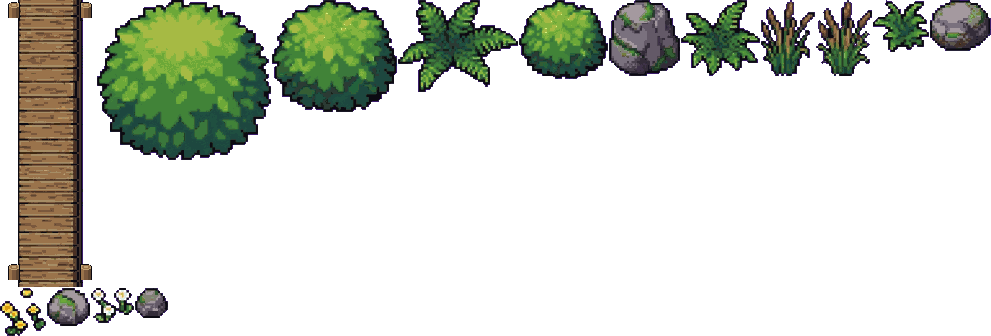
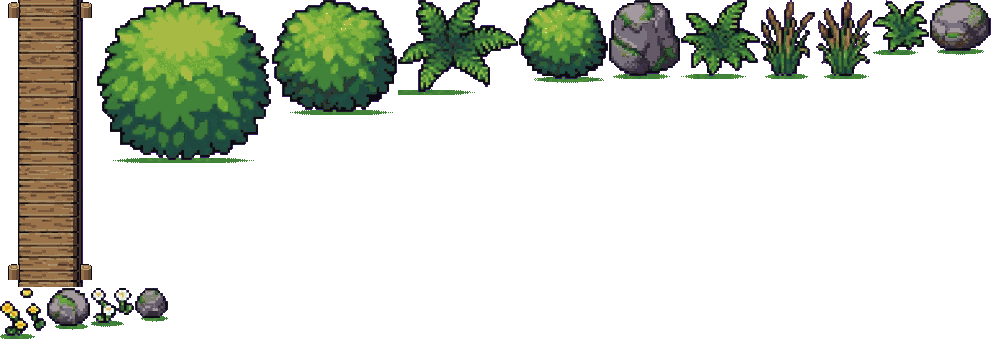
Companion terrain: meadow follow-up, the owner's shadow direction: cast-shadow pieces for the lower lawn (e, s, es, c), contact shadows under the props, the lawn mottled in loose patches, roots trailing down the cliff faces; the proof place draws them

diff --git a/art/companion-48/tools/build-meadow-drop.py b/art/companion-48/tools/build-meadow-drop.py
@@ -106,8 +106,19 @@ def fleck_windows(n, seed):
     return [RES[y - 24:y + 24, x - 24:x + 24] for y, x in got]
 def tone(k): k = np.clip(np.where(k > TOPK, 2 * TOPK - k, k), 0, TOPK); return np.array(LRAMP)[k]
 
+BAY = np.array([[0, 8, 2, 10], [12, 4, 14, 6], [3, 11, 1, 9], [15, 7, 13, 5]])
+def bayer(h, w): return np.tile(BAY, (h // 4 + 1, w // 4 + 1))[:h, :w]
+def mottle(seed):
+    """three or four greens in loose, irregular patches (owner 00:05: the top is mottled, not one fill): a smoothed noise field split
+    at +-0.7 sigma into a step down or up, faded to nothing 6 px from the tile's sides so tiles still meet on flecks alone; edges
+    dithered on the 4x4 Bayer"""
+    from scipy import ndimage as nd_
+    rng = np.random.RandomState(seed + 77); n = nd_.gaussian_filter(rng.normal(0, 1, (48, 48)), 5); n = (n - n.mean()) / n.std()
+    yy, xx = np.mgrid[0:48, 0:48]; fade = np.clip(np.minimum(np.minimum(yy, 47 - yy), np.minimum(xx, 47 - xx)) / 6.0, 0, 1)
+    n = n * fade; B = bayer(48, 48) / 16.0
+    return np.where(n > 0.7 + 0.3 * B, 1, np.where(n < -0.7 - 0.3 * B, -1, 0))
 def lawn_tile(f, seed):
-    t = tone(LAWN0 + f); rng = np.random.RandomState(seed)
+    t = tone(LAWN0 + f + mottle(seed)); rng = np.random.RandomState(seed)
     def tuft(cy, cx):
         base = t[cy, cx]
         for b in range(rng.randint(3, 6)):
@@ -136,6 +147,17 @@ def add(name, a, **f): PIECES.append((name, a, dict(status="candidate", offset=[
 FL = fleck_windows(8, 1)
 LIPF = fleck_windows(8, 2)[6:]                                    # the lawn texture for the pieces that carry their own lawn (lip, shore margin, spill, holes)
 for k in range(6): add(f"meadow/ground/lawn-{k + 1}", lawn_tile(FL[k], 300 + k), kind="ground", set="lawn", variant=str(k + 1))
+# the cast shadow (owner 00:05: "shadows help you add depth"; light from the upper left): drawn on the LOWER lawn tile beside a raised
+# edge, by the loader's rule (to be ruled): `e` on the tile east of a plateau or face, `s` on the tile south of a face's foot, `es` both,
+# `c` the tile whose only raised neighbour is its north-west. Lawn texture two steps under the lawn, toned by the tile's level like the
+# lawn; transparent beyond; a soft edge dithered over 4 px on the 4x4 Bayer.
+def shadow_piece(state, seed):
+    rng = np.random.RandomState(seed); yy, xx = np.mgrid[0:48, 0:48]; B = bayer(48, 48)
+    we = 14 + np.round(1.5 * np.sin(2 * np.pi * yy / 48)); hs = 22 + np.round(2 * np.sin(2 * np.pi * xx / 48))
+    de = {"e": we - xx, "s": hs - yy, "es": np.maximum(we - xx, hs - yy), "c": 14 - np.hypot(xx, yy)}[state]
+    inside = (de >= 4) | ((de > 0) & (B < de / 4 * 16))
+    a = np.where(inside, tone(LAWN0 - 2 + LIPF[seed % 2][yy % 48, xx % 48]), TR); return a
+for k, st in enumerate(("e", "s", "es", "c")): add(f"meadow/shadow/cast-{st}", shadow_piece(st, 40 + k), kind="shadow", set="cast", state=st)
 WQ = {n: to_idx(os.path.join(TS, "water", n + ".png")) for n in ("q-nw-edgeh-f1", "q-nw-fill-f1")}
 bank = WQ["q-nw-edgeh-f1"]; bk = bank[bank != TR]; bk = bk[np.isin(mat[bk], ["earth", "sand"])]; bv, bc = np.unique(bk, return_counts=True)
 SAND = sorted(bv[np.argsort(-bc)[:2]], key=lambda i: -lum[i]) if len(bv) else [P48.index["sand"]]
@@ -253,6 +275,15 @@ def spill(a, seed):
         a[y0 + d - 1, x] = gstep(up, -2); a[y0 + d, x] = OUTL
         if rng.rand() < .35:
             for t in range(1, rng.randint(2, 7)): a[y0 + d + t, x] = gstep(up, -1) if t < 3 else OUTL
+    ROOT, ROOTL = nearest((86, 60, 40)), nearest((128, 92, 60))         # roots trailing from the turf down the stone (owner's reference)
+    for _ in range(max(1, w // 24)):
+        x = int(rng.uniform(4, w - 4)); col = np.where(a[:, x] != TR)[0]
+        if not len(col): continue
+        y = col[0] + dd[x] + 1; L_ = rng.randint(8, 22)
+        for t in range(L_):
+            if not (0 <= y < h - 10 and 1 <= x < w - 1) or a[y, x] == TR: break
+            if np.isin(a[y, x], ROCKI) or mat[a[y, x]] != "grass": a[y, x] = ROOT; a[y, x - 1] = ROOTL if np.isin(a[y, x - 1], ROCKI) else a[y, x - 1]
+            y += 1; x += int(rng.choice([-1, 0, 0, 0, 1]))
     return a
 def flatten(a):
     """the rock at the lawn's scale: a pixel takes its 3x3 majority colour when that colour holds 5 of the 9 and is the same material
@@ -332,6 +363,11 @@ for p in json.load(open(os.path.join(TS, "stairs", "stairs.json")))["pieces"]:
     add(p["name"], a, **f)
 for p in json.load(open(os.path.join(TS, "props", "props.json")))["pieces"]:
     a = to_idx(os.path.join(TS, "props", p["file"])); h, w = a.shape; f = {k: v for k, v in p.items() if k not in ("name", "file", "px")}
+    if p.get("type") in ("boulder", "reeds", "flowers", "bush", "fern"):        # a contact shadow on the lawn under it, down and right (the light is upper left)
+        a = np.vstack([a, np.full((4, w), TR)]); h += 4; yy, xx = np.mgrid[0:h, 0:w]; B = bayer(h, w)
+        foot = np.where((a[:-4] != TR).any(1))[0].max(); cols = np.where(a[foot] != TR)[0]; cx = (cols.min() + cols.max()) / 2 + 3
+        d = np.hypot((xx - cx) / max(4, 0.42 * w), (yy - foot - 1) / 3.2); sh = ((d < 0.8) | ((d < 1) & (B < (1 - d) / 0.2 * 16))) & (a == TR)
+        a[sh] = tone(LAWN0 - 2 + LIPF[0][yy[sh] % 48, xx[sh] % 48])
     KEY = [P48.index[n] for n in ("magenta", "wine", "plum")]          # the magenta key's residue: on the rim the outline, inside soil
     tp = np.pad(a == TR, 1, constant_values=True); edge = tp[:-2, 1:-1] | tp[2:, 1:-1] | tp[1:-1, :-2] | tp[1:-1, 2:]
     k_ = np.isin(a, KEY); a[k_ & edge] = P48.index["plumD"]; a[k_ & ~edge] = P48.index["soil"]
@@ -349,7 +385,7 @@ def signed(n, f):
 PIECES = [(n, a, dict(f, status="signed") if signed(n, f) else f) for n, a, f in PIECES]
 
 # ---- sheets: shelf-packed by group, at most 1024 wide
-GROUPS = [("ground", lambda n: "/ground/" in n or "/material/" in n or "/decal/" in n),
+GROUPS = [("ground", lambda n: "/ground/" in n or "/material/" in n or "/decal/" in n or "/shadow/" in n),
           ("quarters", lambda n: "/lip/" in n or ("/shore/" in n and "water-" in n)),
           ("shore", lambda n: "/shore" in n or "/band/" in n), ("walls", lambda n: any(k in n for k in ("/face/", "/cap/", "/side/", "/foot/"))),
           ("stairs", lambda n: "/stair/" in n), ("props", lambda n: "/prop/" in n)]

diff --git a/art/companion-48/tools/meadow-drop-place.py b/art/companion-48/tools/meadow-drop-place.py
@@ -47,6 +47,15 @@ for r in range(R):
         v[(r, c)] = k
         if L[r][c] == "s": put(PC[by(kind="ground", set="sand")[0]][1], r * 48, c * 48)
         else: put(toned(PC[lawn[k]][1], level(L[r][c])), r * 48, c * 48)
+# the cast shadow on the lower lawn (proposed loader rule): e = the west neighbour is raised (plateau or face), s = the north neighbour
+# is a face's foot, es = both, c = only the north-west neighbour is raised; toned by the tile's level like the lawn
+raised = lambda r, c: at(r, c) in ("1", "F")
+for r in range(R):
+    for c in range(Cn):
+        if L[r][c] not in (".",): continue
+        e, s_ = raised(r, c - 1), at(r - 1, c) == "F"
+        st = "es" if e and s_ else "e" if e else "s" if s_ else "c" if raised(r - 1, c - 1) else None
+        if st: put(toned(PC[f"meadow/shadow/cast-{st}"][1], 0), r * 48, c * 48)
 OFF = {0: (-1, 0), 1: (-1, 1), 2: (0, 1), 3: (1, 1), 4: (1, 0), 5: (1, -1), 6: (0, -1), 7: (-1, -1)}
 def state(m, q):
     a = m >> (0 if q in ("nw", "ne") else 4) & 1; b = m >> (6 if q in ("nw", "sw") else 2) & 1
